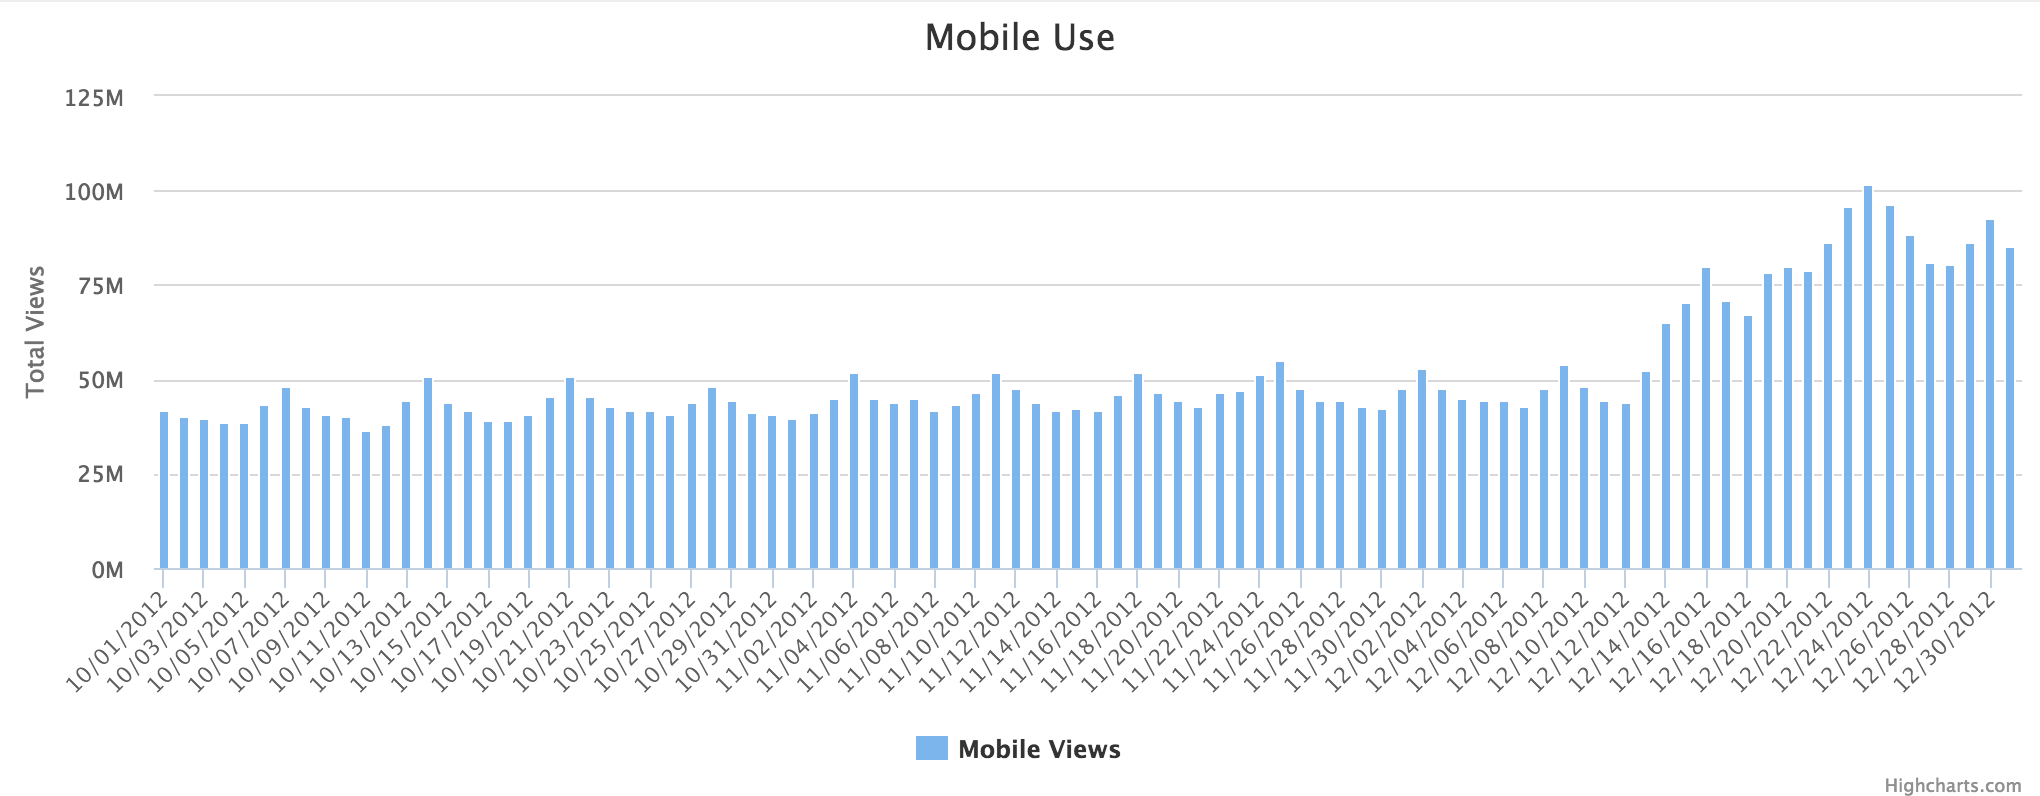
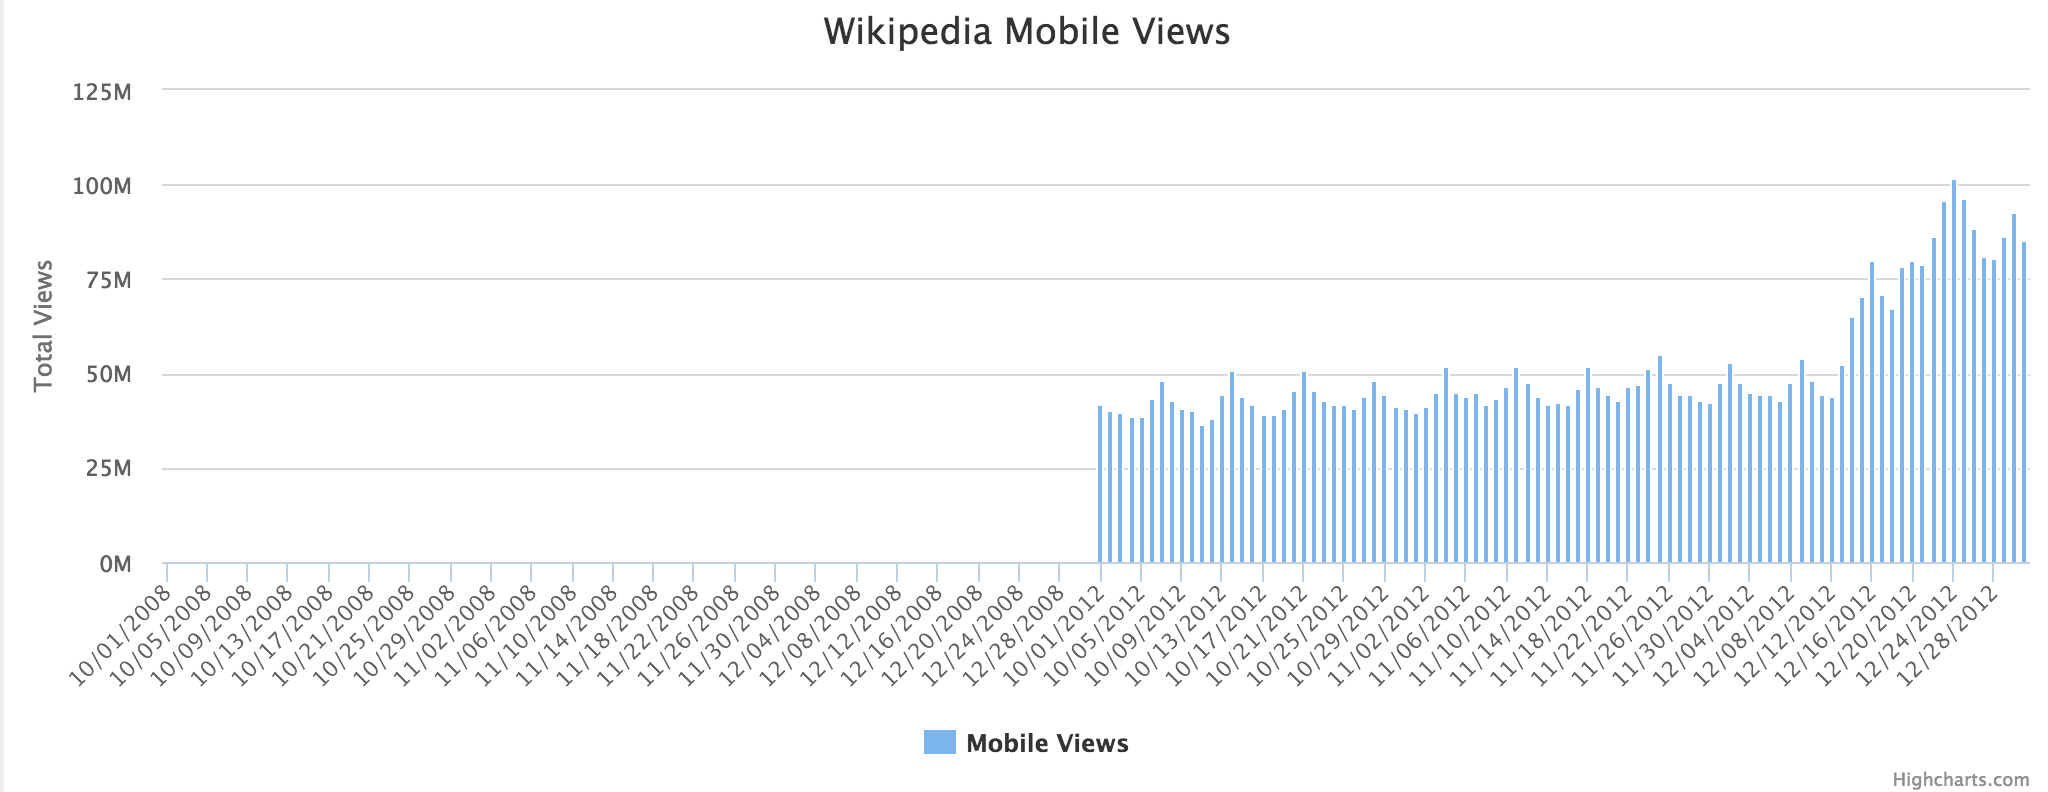
all that's left is the description blurp blurps and footnote

diff --git a/app/assets/javascripts/mobile_charts.js b/app/assets/javascripts/mobile_charts.js
@@ -1,22 +1,17 @@
 function getMobile() {
   var json = $.getJSON("/data/progress/mobile",
     function() {
-      jsonData = json.responseJSON[0]["wikiviews"];
-      toPlot = [];
-      cats = [];
+      var jsonData = json.responseJSON[0]["wikiviews"];
+      var cats_08 = build_categories_by_year("2008");
+      var cats_12 = build_categories_by_year("2012");
+      var cats = cats_08.concat(cats_12);
 
-      for (var index in jsonData) {
-        v = jsonData[index]
-        if (v["day"] != "all") {
-          toPlot.push(v["views"]);
-          cats.push(v["month"] + "/" + v["day"] + "/" + v["year"]);
-        }
-      }
+      var toPlot = build_column_data_with_cats(jsonData, cats);
 
       // Create the histogram
       $('#mobile').highcharts({
         chart: {type: 'column'},
-        title: {text: 'Mobile Use'},
+        title: {text: 'Wikipedia Mobile Views'},
         xAxis: { categories: cats, crosshair: true },
         yAxis: {
           title: {text: 'Total Views'}

diff --git a/TODO.md b/TODO.md
@@ -3,15 +3,7 @@
 * Clone project to AWS and get ready for production!
 * Get app serving with Apache? on AWS!
 * Add redirect rules to yo-mom.com!
-* Bug on wikis#top -> returns data for all months, not just requested
-* Bug on wikis#top -> data is sometimes not order according to all
 
 ### Frontend
 * Display all days in the month for Histograms, regardless of if there is data
   * Add categories (similar to mobile.js) to common.js with a month/year parameter
-* Fix titles and stuff on "Top" charts
-* Get all of the graphs and pages set up. Do it
-* Order the bar char from most to least on "Top" and "Index" page
-* Screenshot final pages and add to "Poster" page with analysis
-* Get Compage Page Working
-* Get Search Page working
